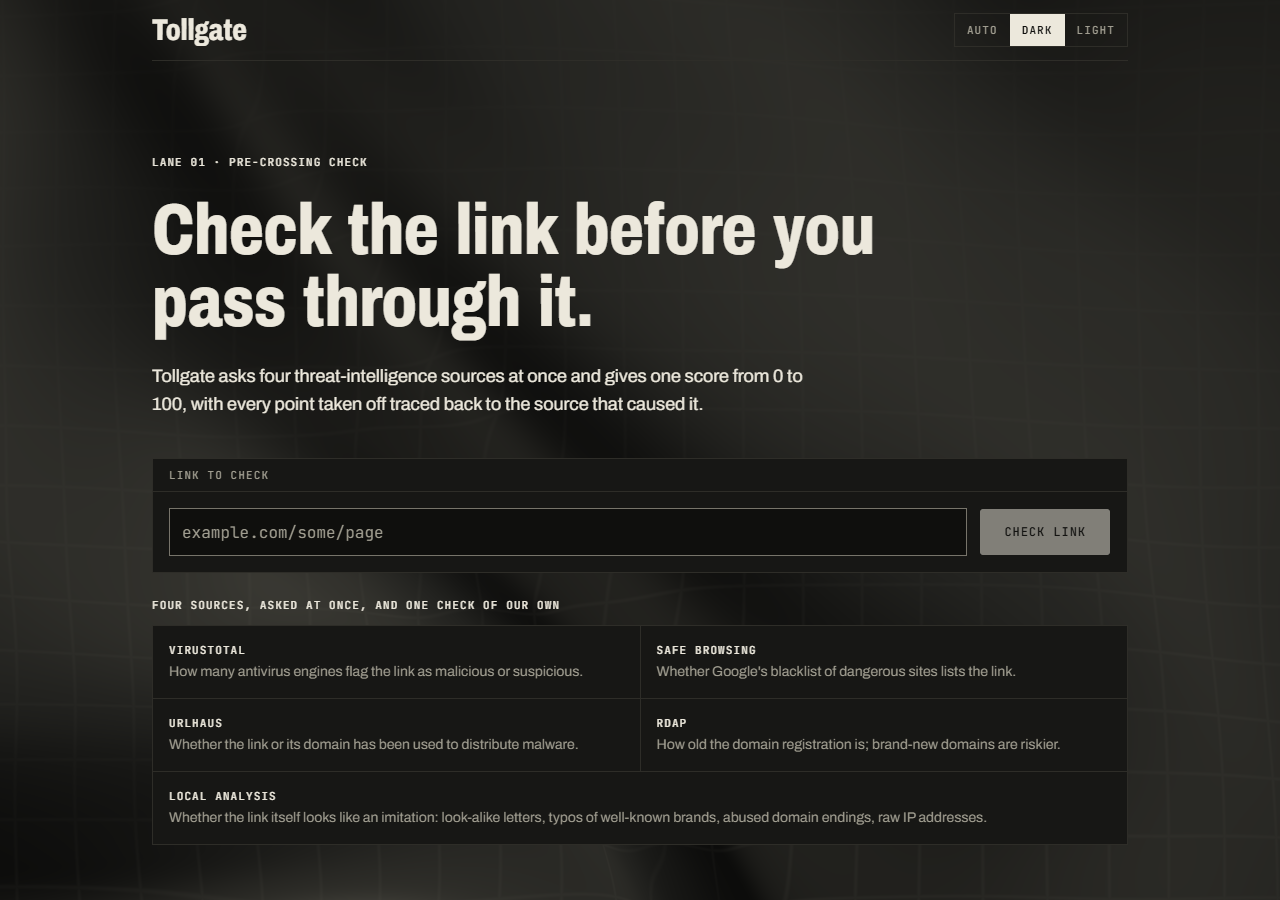
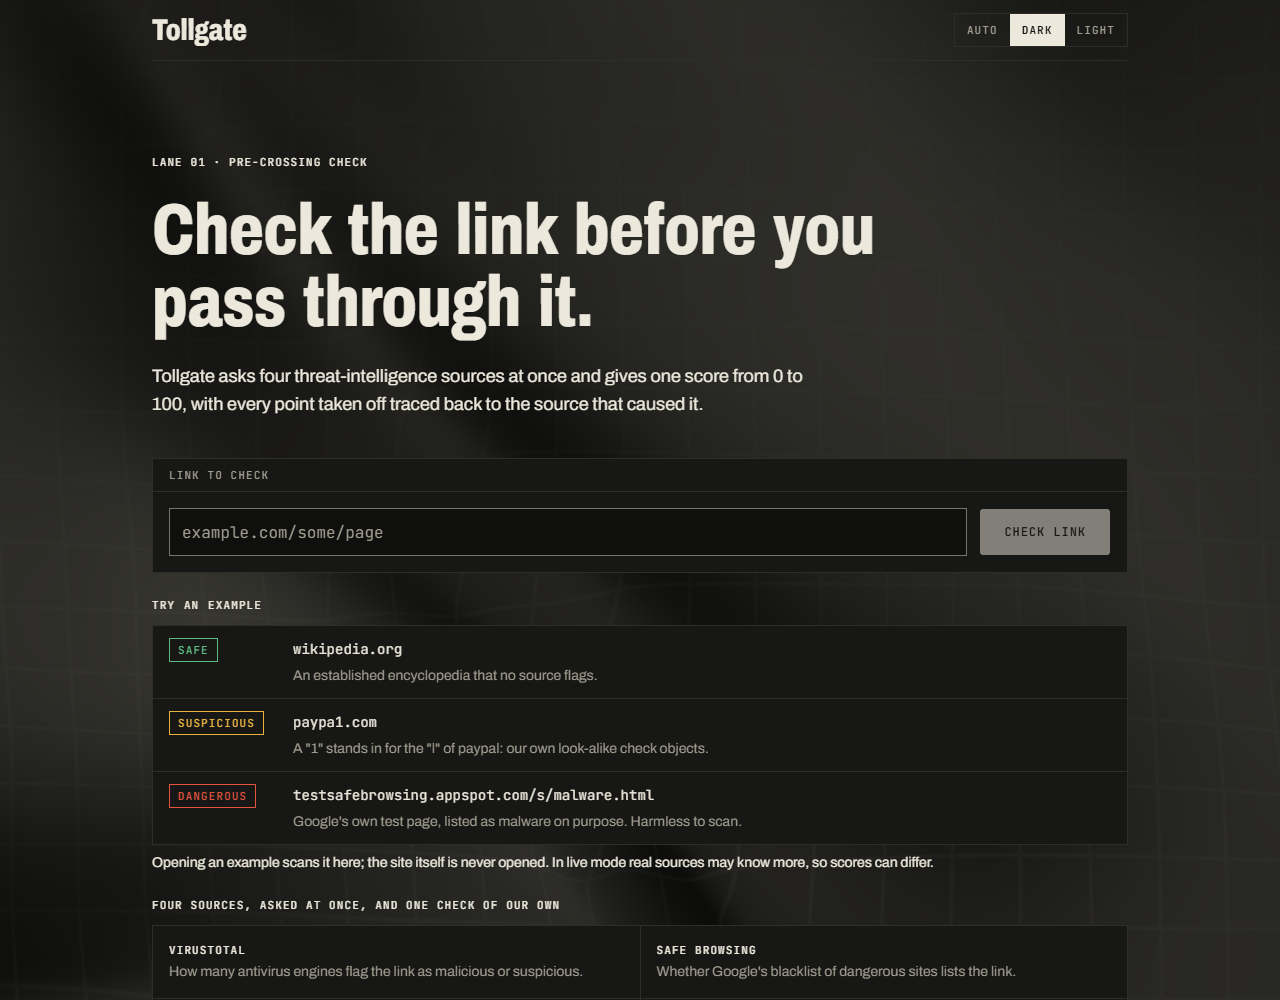
Refresh README screenshots
New home page with example links and history list with delete buttons.

diff --git a/README.md b/README.md
@@ -40,7 +40,7 @@ Tollgate takes a URL, asks four threat-intelligence sources about it in parallel
 
 ### Scan a link
 
-![Home screen with the link form and the list of sources](docs/screenshots/home.png)
+![Home screen with the link form, three example links (Safe, Suspicious, Dangerous) and the list of sources](docs/screenshots/home.png)
 
 ### Read the result
 
@@ -62,7 +62,7 @@ The same table for a link that is judged only by its own shape (look-alike chara
 
 ### History and statistics
 
-![History dashboard: summary, verdict split, most scanned hosts, recent scores and scan list](docs/screenshots/history.png)
+![History dashboard: summary, verdict split, most scanned hosts, recent scores and a scan list with Delete and Clear history buttons](docs/screenshots/history.png)
 
 ### Light theme and phones
 
@@ -238,7 +238,7 @@ npm install
 npm run dev
 ```
 
-Open http://localhost:5173. In development Vite forwards `/api` calls to the backend, so there is no CORS policy to configure.
+Open http://localhost:5173/tollgate/ (the app is served under `/tollgate/`, the same path as on GitHub Pages). In development Vite forwards `/api` calls to the backend, so there is no CORS policy to configure.
 
 | Route | What it is |
 |---|---|
